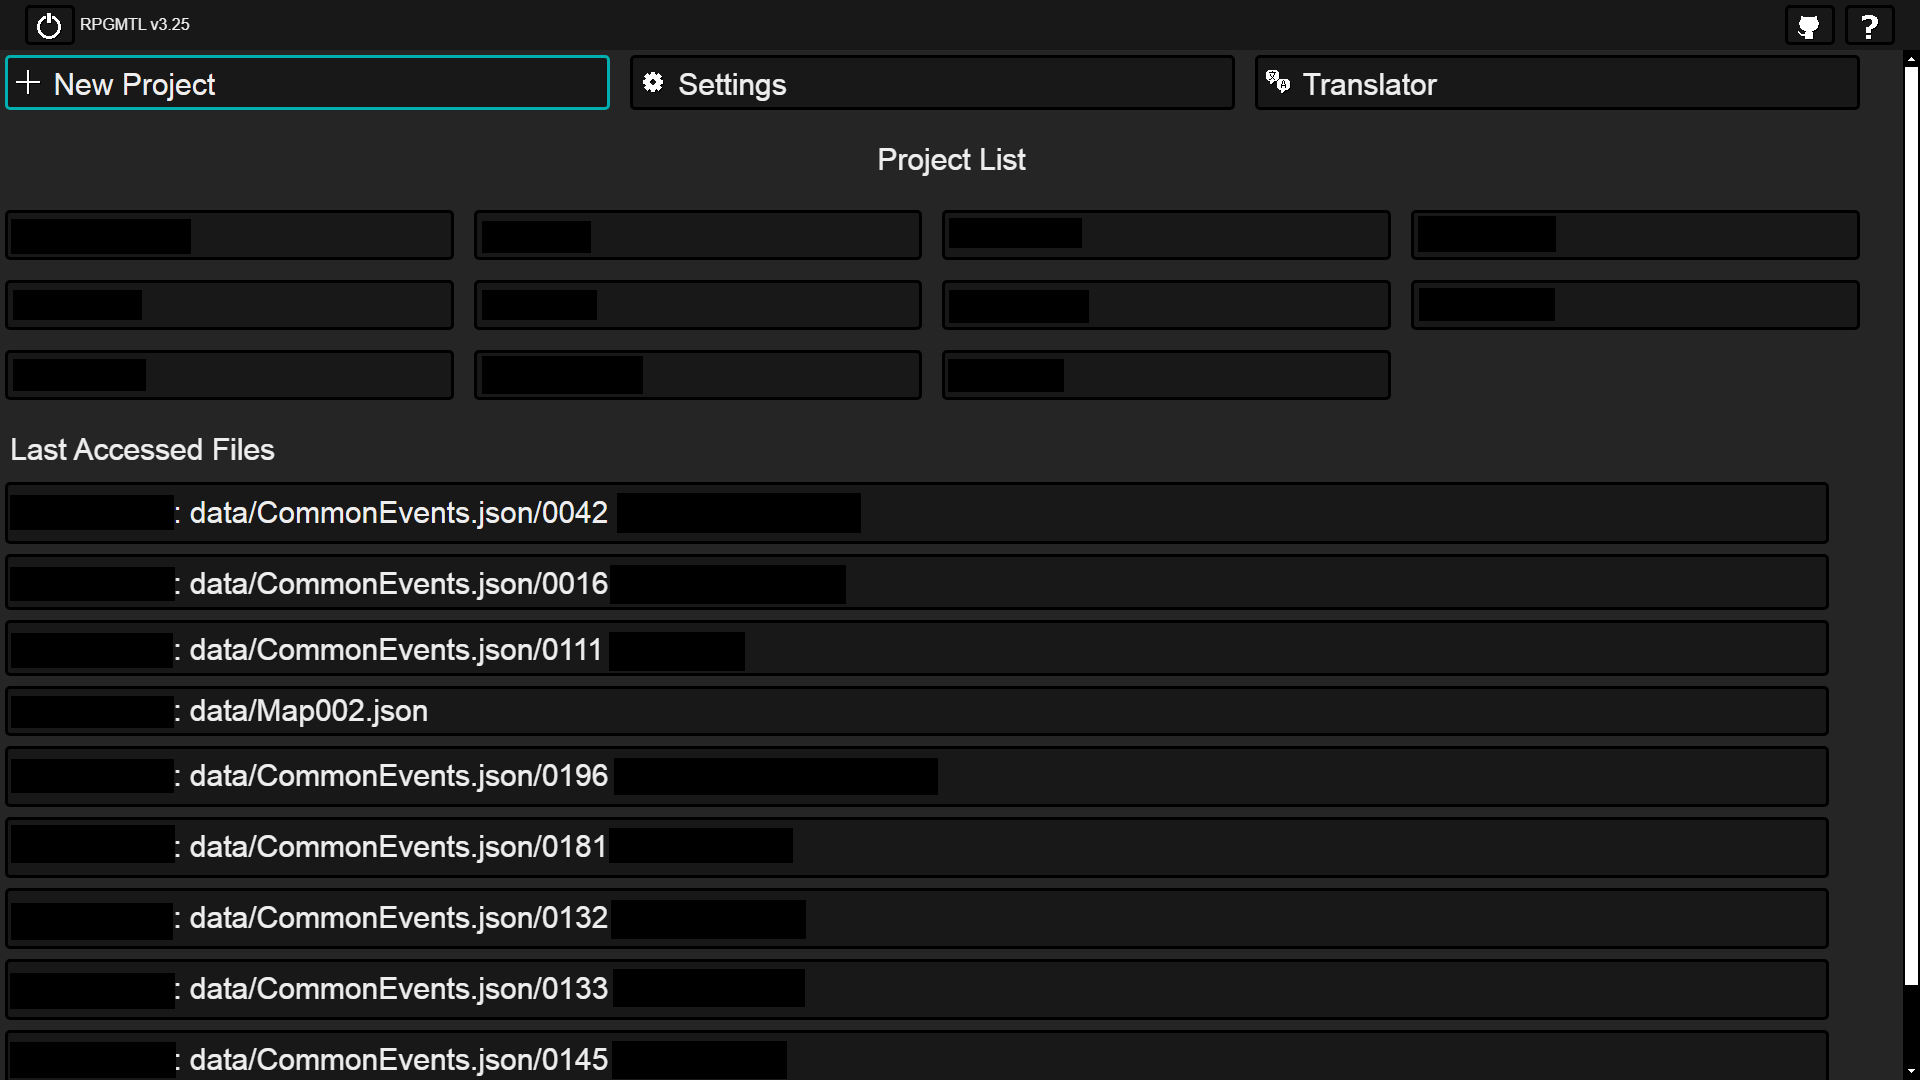
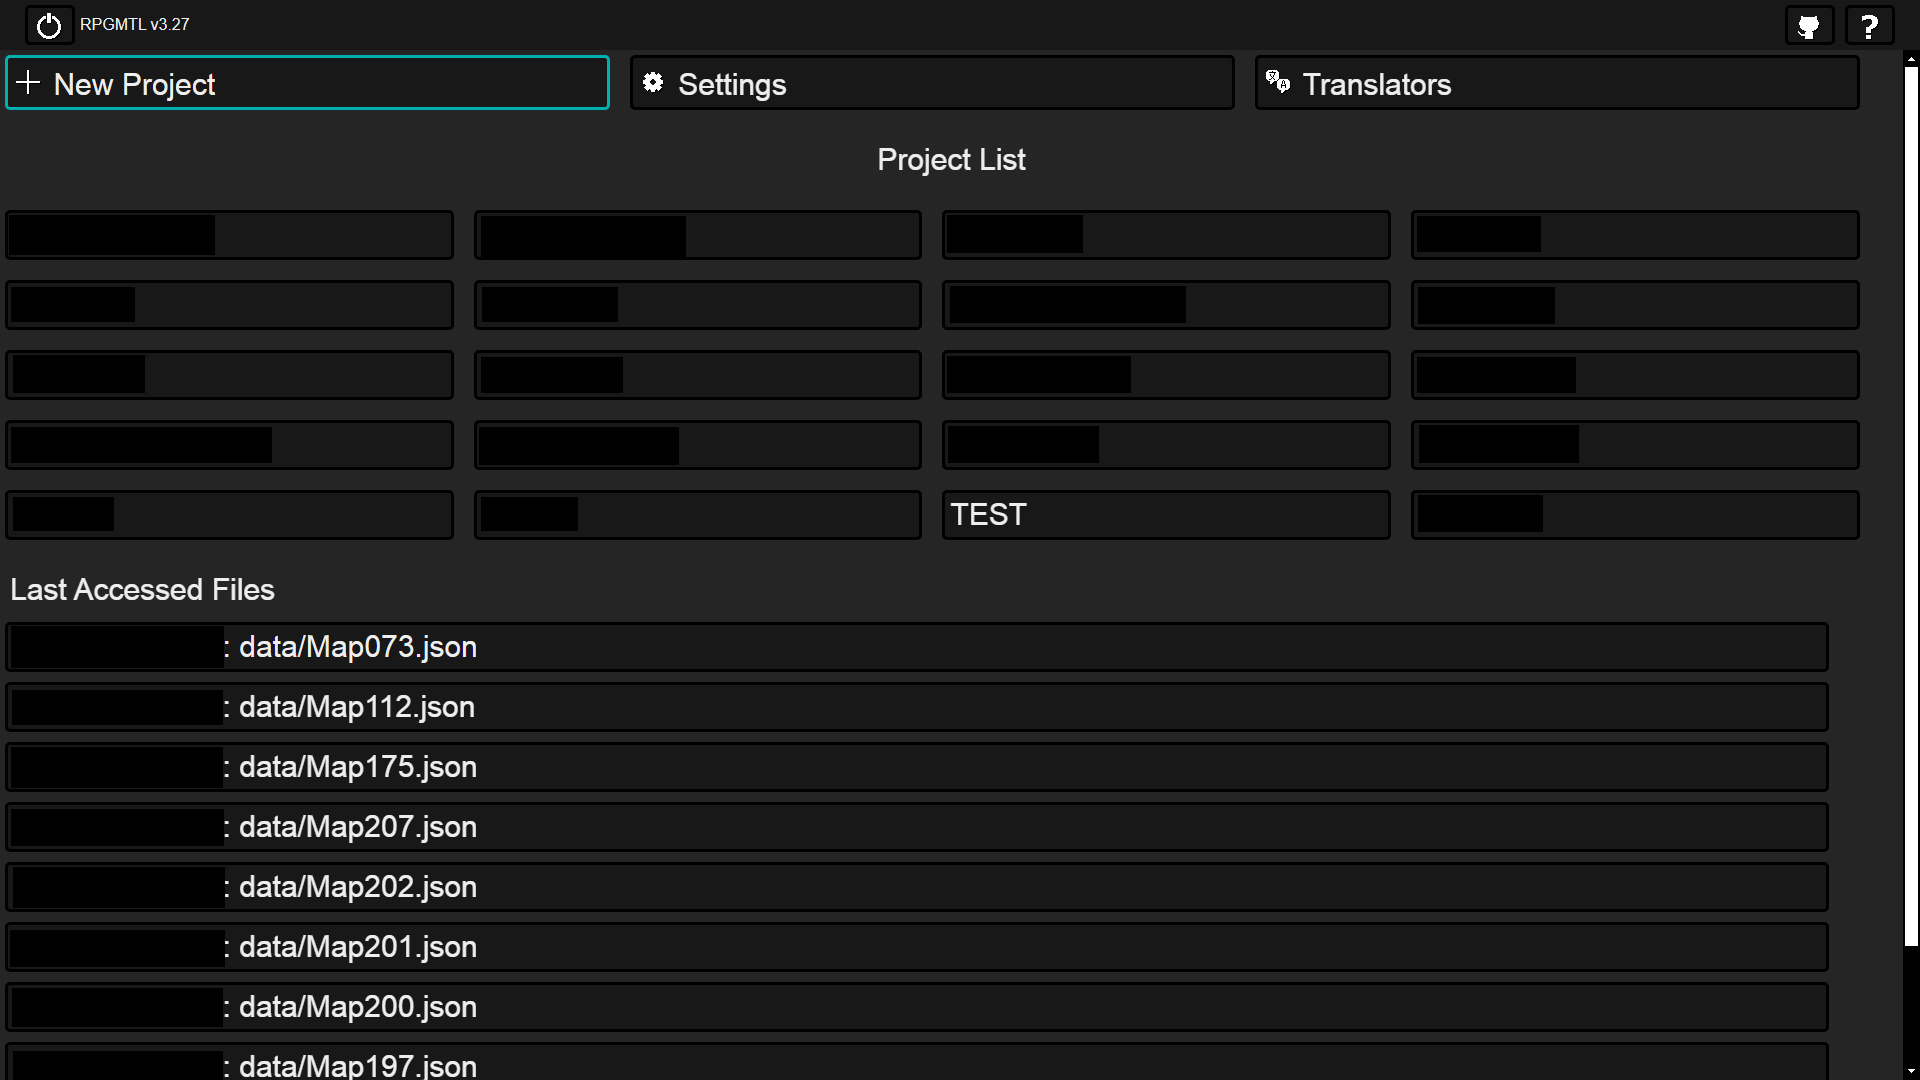
Various UI tweaks, added -p, updated readme & version number

diff --git a/assets/ui/script.js b/assets/ui/script.js
@@ -1211,7 +1211,7 @@ function project_list(data)
 	add_grid_cell(grid, '<img src="assets/images/setting.png"> Settings', function(){
 		go_settings(null, true);
 	});
-	add_grid_cell(grid, '<img src="assets/images/translate.png"> Translator', function(){
+	add_grid_cell(grid, '<img src="assets/images/translate.png"> Translators', function(){
 		go_translator(null, true);
 	});
 	add_to(fragment, "div", {cls:["title"]}).innerHTML = "Project List";
@@ -1646,6 +1646,10 @@ function project_creation(data)
 				go_new_project(path, input.value);
 			}
 		});
+		
+		// explanation
+		add_to(fragment, "div", {cls:["title", "left"]}).innerHTML = "After confirming, a backup of the game files will be made in this project folder.<br>You'll then have to set your Project Settings and Extract the strings.";
+		
 		update_main(fragment);
 	}
 }
@@ -1665,19 +1669,24 @@ function project_menu(data = null)
 			},
 			function(){ // help
 				help.innerHTML = "<ul>\
+					<li>Set your <b>Settings before</b> extracting the strings.</li>\
+				</ul>\
+				<ul>\
 					<li><b>Browse Files</b> to browse and translate strings.</li>\
 					<li><b>Add a Fix</b> to add Python patches (Check the README for details).</li>\
-					<li>Set your <b>Settings before</b> extracting the strings.</li>\
-					<li><b>Unload the Project</b> if you must do modifications on the local files, using external scripts or whatever.</li>\
+					<li><b>Batch Translate</b> will use the Batch Translator to translate all uncomplete and non-ignored files.</li>\
 				</ul>\
 				<ul>\
 					<li><b>Update the Game Files</b> if the Game got updated or if you need to re-copy the files.</li>\
 					<li><b>Extract the Strings</b> if you need to extract them from Game files.</li>\
 					<li><b>Release a Patch</b> to create a copy of Game files with your translated strings. They will be found in the <b>release</b> folder.</li>\
+					<li><b>Unload from Memory</b> if you must do modifications on the local files, using external scripts or whatever.</li>\
 				</ul>\
 				<ul>\
-					<li><b>Import Strings from RPGMTL</b> to import strings from RPGMTL projects from any version.</li>\
-					<li><b>Strings Backups</b> to open the list of backups if you need to revert the project data to an earlier state.</li>\
+					<li><b>Replace Strings in batch</b> allows you to do batch replacement of case-sensitive strings.</li>\
+					<li><b>Backup Control</b> to open the list of backups if you need to revert the project strings data to an earlier state.</li>\
+					<li><b>Import RPGMTL Strings</b> to import strings from RPGMTL projects from any version.</li>\
+					<li><b>Import RPGMakerTrans v3 Strings</b> to import strings from RPGMakerTrans v3 projects.</li>\
 				</ul>\
 				\
 				Keyboard shortcuts\
@@ -1700,20 +1709,20 @@ function project_menu(data = null)
 		// some only appear if files have been parsed
 		fragment = new_page();
 		add_to(fragment, "div", {cls:["title"]}).innerHTML = project.name;
-		add_to(fragment, "div", {cls:["title", "left"]}).innerHTML = "Game Folder: " + project.config["path"];
-		let grid = add_to(fragment, "div", {cls:["grid"]});
+		add_to(fragment, "div", {cls:["title", "left", "smalltext"]}).innerHTML = "Imported from: " + project.config["path"];
+		let grid = null;
+		// translate options
 		if(project.config.files)
 		{
+			add_to(fragment, "div", {cls:["title", "left"]}).innerHTML = "Translate";
+			grid = add_to(fragment, "div", {cls:["grid"]});
 			add_grid_cell(grid, '<img src="assets/images/folder.png"> Browse Files', function(){
 				go_browse(project.name, "");
 			});
 			add_grid_cell(grid, '<img src="assets/images/bandaid.png"> Add a Fix', function(){
 				go_patches(project.name);
 			});
-			add_grid_cell(grid, '<img src="assets/images/copy.png"> Replace Strings in batch', function(){
-				replace_page();
-			});
-			add_grid_cell(grid, '<img src="assets/images/translate.png"> Translate the Game', function(){
+			add_grid_cell(grid, '<img src="assets/images/translate.png"> Batch Translate', function(){
 				if(window.event.ctrlKey || window.confirm("Are you sure you wish to translate the whole game?\nIt will be time consuming.\nMake sure your settings are set properly.")) // confirmation / shortcut to insta confirm
 				{
 					set_loading_text("Translating the whole game, go do something else...");
@@ -1721,20 +1730,22 @@ function project_menu(data = null)
 				}
 			});
 		}
+		// settings options
+		add_to(fragment, "div", {cls:["title", "left"]}).innerHTML = "Settings";
+		grid = add_to(fragment, "div", {cls:["grid"]});
 		add_grid_cell(grid, '<img src="assets/images/setting.png"> Project Settings', function(){
 			go_settings(project.name);
 		});
-		add_grid_cell(grid, '<img src="assets/images/translate.png"> Project Translator', function(){
+		add_grid_cell(grid, '<img src="assets/images/translate.png"> Project Translators', function(){
 			go_translator(project.name);
 		});
-		add_grid_cell(grid, '<img src="assets/images/cancel.png"> Unload the Project', function(){
-			post("/api/unload", go_main, null, {name:project.name});
-		});
-		add_to(fragment, "div", {cls:["spacer"]});
-		add_interaction(fragment, '<img src="assets/images/update.png"> Update the Game Files', function(){
+		// main actions
+		add_to(fragment, "div", {cls:["title", "left"]}).innerHTML = "Actions";
+		grid = add_to(fragment, "div", {cls:["grid"]});
+		add_grid_cell(grid, '<img src="assets/images/update.png"> Update the Game Files', function(){
 			local_browse("Update project files", "Select the Game executable.", 1);
 		});
-		add_interaction(fragment, '<img src="assets/images/export.png"> Extract the Strings', function(){
+		add_grid_cell(grid, '<img src="assets/images/export.png"> Extract the Strings', function(){
 			if(window.event.ctrlKey || window.confirm("Extract the strings?")) // confirmation / shortcut to insta confirm
 			{
 				set_loading_text("Extracting, be patient...");
@@ -1743,21 +1754,30 @@ function project_menu(data = null)
 		});
 		if(project.config.files)
 		{
-			add_interaction(fragment, '<img src="assets/images/release.png"> Release a Patch', function(){
+			add_grid_cell(grid, '<img src="assets/images/release.png"> Release a Patch', function(){
 				set_loading_text("The patch is being generated in the release folder...");
 				post("/api/release", project_menu, null, {name:project.name});
 			});
-			add_to(fragment, "div", {cls:["spacer"]});
-			add_interaction(fragment, '<img src="assets/images/copy.png"> String Backups', function(){
+		}
+		add_grid_cell(grid, '<img src="assets/images/cancel.png"> Unload from Memory', function(){
+			post("/api/unload", go_main, null, {name:project.name});
+		});
+		if(project.config.files)
+		{
+			add_to(fragment, "div", {cls:["title", "left"]}).innerHTML = "Strings Manipulation";
+			grid = add_to(fragment, "div", {cls:["grid"]});
+			add_grid_cell(grid, '<img src="assets/images/copy.png"> Replace Strings in batch', function(){
+				replace_page();
+			});
+			add_grid_cell(grid, '<img src="assets/images/copy.png"> Backup Control', function(){
 				go_backups(project.name);
 			});
-			add_interaction(fragment, '<img src="assets/images/import.png"> Import Strings from RPGMTL', function(){
+			add_grid_cell(grid, '<img src="assets/images/import.png"> Import RPGMTL Strings', function(){
 				local_browse("Import RPGMTL", "Select an old RPGMTL strings file.", 2);
 			});
-			add_interaction(fragment, '<img src="assets/images/import.png"> Import Strings from RPGMakerTrans v3', function(){
+			add_grid_cell(grid, '<img src="assets/images/import.png"> Import RPGMakerTrans v3 Strings', function(){
 				local_browse("Import RPGMAKERTRANSPATCH", "Select a RPGMAKERTRANSPATCH file.", 3);
 			});
-			add_to(fragment, "div", {cls:["spacer"]});
 		}
 		update_main(fragment);
 	}
@@ -2913,19 +2933,18 @@ function local_browse(title, explanation, mode)
 		// don't update upate_page_location here
 		
 		filebrowsingmode = mode;
-		
 		// top bar
 		update_top_bar(
 			title,
 			function(){ // back callback
 				switch(filebrowsingmode)
 				{
-					case 0:
+					case 0: // new project
 						go_main();
 						break;
-					case 1:
-					case 2:
-					case 3:
+					case 1: // update game
+					case 2: // import RPGMTL
+					case 3: // import RPGMakerTrans
 						project_menu();
 						break;
 					default:
@@ -2942,6 +2961,9 @@ function local_browse(title, explanation, mode)
 		// main part
 		fragment = new_page();
 		add_to(fragment, "div", {cls:["title"]}).innerHTML = explanation;
+		add_interaction(fragment, "RPGMTL", function(){
+			post("/api/local_path", update_local_browse, null, {"path":"$$__RPGMTL_FORCE_WORKING_DIRECTORY__$$", "mode":filebrowsingmode});
+		}).classList.add("text-button");
 		add_to(fragment, "div", {cls:["left"], id:"current_path"});
 		add_to(fragment, "div", {cls:["left", "title"]}).innerHTML = "Folders";
 		add_to(fragment, "div", {id:"folder_container"});
@@ -3013,9 +3035,16 @@ function update_local_browse(data)
 	}
 	container = document.getElementById("file_container");
 	container.innerHTML = "";
-	for(let i = 0; i < data["files"].length; ++i)
+	let files = data["files"].slice();
+	// hack to add a "Select this folder button" for game selection
+	if(filebrowsingmode <= 1 && files.length == 0)
 	{
-		const t = data["files"][i];
+		files.push(data["path"] + "/Select this Folder");
+	}
+	
+	for(let i = 0; i < files.length; ++i)
+	{
+		const t = files[i];
 		add_interaction(container, t.split("/")[t.split("/").length-1], function(){
 			switch(filebrowsingmode)
 			{

diff --git a/assets/ui/style.css b/assets/ui/style.css
@@ -237,6 +237,7 @@ li {
 
 .text-button {
 	width: auto;
+	max-height:32px;
 }
 
 #edit-ori {

diff --git a/rpgmtl.py b/rpgmtl.py
@@ -59,7 +59,7 @@ class PatcherHelper():
 ######################################################
 class RPGMTL():
     # constant
-    VERSION = "3.26"
+    VERSION = "3.27"
     CHILDREN_FILE_ID = "@__children_file__@:"
     HISTORY_LIMIT = 10
     def __init__(self : RPGMTL) -> None:
@@ -117,6 +117,7 @@ class RPGMTL():
                 web.post('/api/replace_strings', self.replace_strings), # Browse local files
         ])
         # variables
+        self.port : int = 8000 # Port to start the server with
         self.last_directory = os.getcwd() # used for file browsing
         self.is_posix = os.name != 'nt' # set to True if OS isn't windows
         self.projects : dict[str, Any] = {} # store loaded config.json
@@ -489,10 +490,6 @@ class RPGMTL():
             }
             # backup files
             self.backup_game_files(name)
-            # extract strings
-            self.generate(name)
-            # apply default translations and settings
-            self.apply_default(name)
             # save
             self.save()
             return True, name
@@ -1295,11 +1292,15 @@ class RPGMTL():
         # Parse command line
         parser : argparse.ArgumentParser = argparse.ArgumentParser(prog="rpgmtl.py")
         command = parser.add_argument_group('command', 'Optional commands')
+        command.add_argument('-p', '--port', help="set the web server port", nargs=1, type=int, metavar='PORT', default=[8000])
         command.add_argument('-s', '--https', help="provide paths to your SSL certificate and key", nargs=2, default=None)
         command.add_argument('-n', '--http', help="clear SSL certificate settings and force HTTP", action='store_const', const=True, default=False, metavar='FILES')
         command.add_argument('-i', '--ip', help="set the IP filter status. Add 1, on, enable, enabled, 0, off, disable or disabled to set it.", nargs=1, default=None, metavar='STATE')
         command.add_argument('-d', '--debug', help="remove some strings from the standard output for clarity", action='store_const', const=True, default=False, metavar='')
         args : argparse.Namespace = parser.parse_args()
+        
+        # set server port
+        self.port = args.port[0]
         
         # Remove aiohttp.access
         if args.debug:
@@ -1352,7 +1353,8 @@ class RPGMTL():
         
         # Start
         try:
-            web.run_app(self.app, port=8000, shutdown_timeout=0, ssl_context=ssl_context)
+            self.log.info("Starting RPGMTL on port {}".format(self.port))
+            web.run_app(self.app, port=self.port, shutdown_timeout=0, ssl_context=ssl_context)
         except Exception as e: # Ctrl+C is enough to trigger it
             self.log.warning("The following exception occured:\n" + self.trbk(e))
         self.log.info("RPGMTL is shutting down...")
@@ -1441,7 +1443,7 @@ class RPGMTL():
         else:
             flag, string = self.create_new_project(path, name)
             if flag:
-                return  web.json_response({"result":"ok", "data":{"name":string, "config":self.projects[string]}})
+                return  web.json_response({"result":"ok", "data":{"name":string, "config":self.projects[string]}, "message":"You can now set your Settings and Extract the strings"})
             else:
                 return  web.json_response({"result":"bad", "message":string}, status=500)
 
@@ -1743,8 +1745,11 @@ class RPGMTL():
         else:
             self.load_project(name)
             self.load_strings(name)
-            files, folders = self.get_folder_content(name, path)
-            return web.json_response({"result":"ok", "data":{"config":self.projects[name], "name":name, "path":path, "files":files, "folders":folders}})
+            try:
+                files, folders = self.get_folder_content(name, path)
+                return web.json_response({"result":"ok", "data":{"config":self.projects[name], "name":name, "path":path, "files":files, "folders":folders}})
+            except Exception as e:
+                return web.json_response({"result":"bad", "message":"Strings doesn't exist. You might have to extract them."}, status=400)
 
     # /api/ignore_file
     async def ignore_file(self : RPGMTL, request : web.Request) -> web.Response:

diff --git a/readme.md b/readme.md
@@ -19,7 +19,7 @@ The list of supported files is currently:
 More will be added as I see fit.  
   
 ![image](https://raw.githubusercontent.com/MizaGBF/RPGMTL/main/assets/readme/1.png)  
-*All screenshots are from version 3.25.*
+*All screenshots are from version 3.27.*
   
 ## Table of contents  
   
@@ -162,6 +162,13 @@ When the edit area is open:
 - `Ctrl+O` to copy the original string, if focused.  
 - `Ctrl+D` to delete the translation.  
   
+### Port
+  
+You can change the port used by RPGMTL with the `-p/--port` parameter:   
+```console
+python rpgmtl.py --port 60000
+```  
+  
 ### HTTPS
   
 The project is intended to be used on a local network.  
@@ -213,18 +220,20 @@ will disable both those plugins.
 ### Creation  
   
 On the Home Page, click on `New Project`.  
-Select the location of the executable, of the game you wish to translate.  
+Select the location of the game you wish to translate.  
   
 ![image](https://raw.githubusercontent.com/MizaGBF/RPGMTL/main/assets/readme/2.png)
   
 You'll then be asked a project name. This name will be the one used for the project folder and in the Web UI.
-Once done, hit `Create`.  
+Once done, hit `Create`. The game files will be copied for later use and backup purpose.  
   
 > [!NOTE]  
 > Your Project files are located in the **projects** folder.  
   
 > [!IMPORTANT]  
 > The game you wish to translate must be on the same machine as RPGMTL.  
+  
+You can then modify your **Project Settings** and then **Extract the Strings**.  
   
 ![image](https://raw.githubusercontent.com/MizaGBF/RPGMTL/main/assets/readme/3.png)
   

diff --git a/readme/api.md b/readme/api.md
@@ -235,7 +235,7 @@ Return in data: project 'name', project 'config', 'search' string, 'case' bool, 
 
 ```
 /api/local_path
-Payload: directory 'path' (Empty string equals the last used directory), 'mode' (0 and 1 for exe, 2 for JSON, 3 for RPGMAKERTRANSPATCH)
+Payload: directory 'path' (Empty string equals the last used directory, Invalid string will default to the working directory), 'mode' (0 and 1 for exe, 2 for JSON, 3 for RPGMAKERTRANSPATCH)
 Return in data: 'path', list of 'folders', list of matching 'files'
 ```
 

diff --git a/todo.md b/todo.md
@@ -15,5 +15,5 @@ Future (possible) improvements or bugs are noted here:
   
 ### Translator
   
-- [ ] Rework the Gemini plugin.  
+- [ ] Rework the Gemini plugin(?) (Note: Might not be needed after the last fixes).  
   
